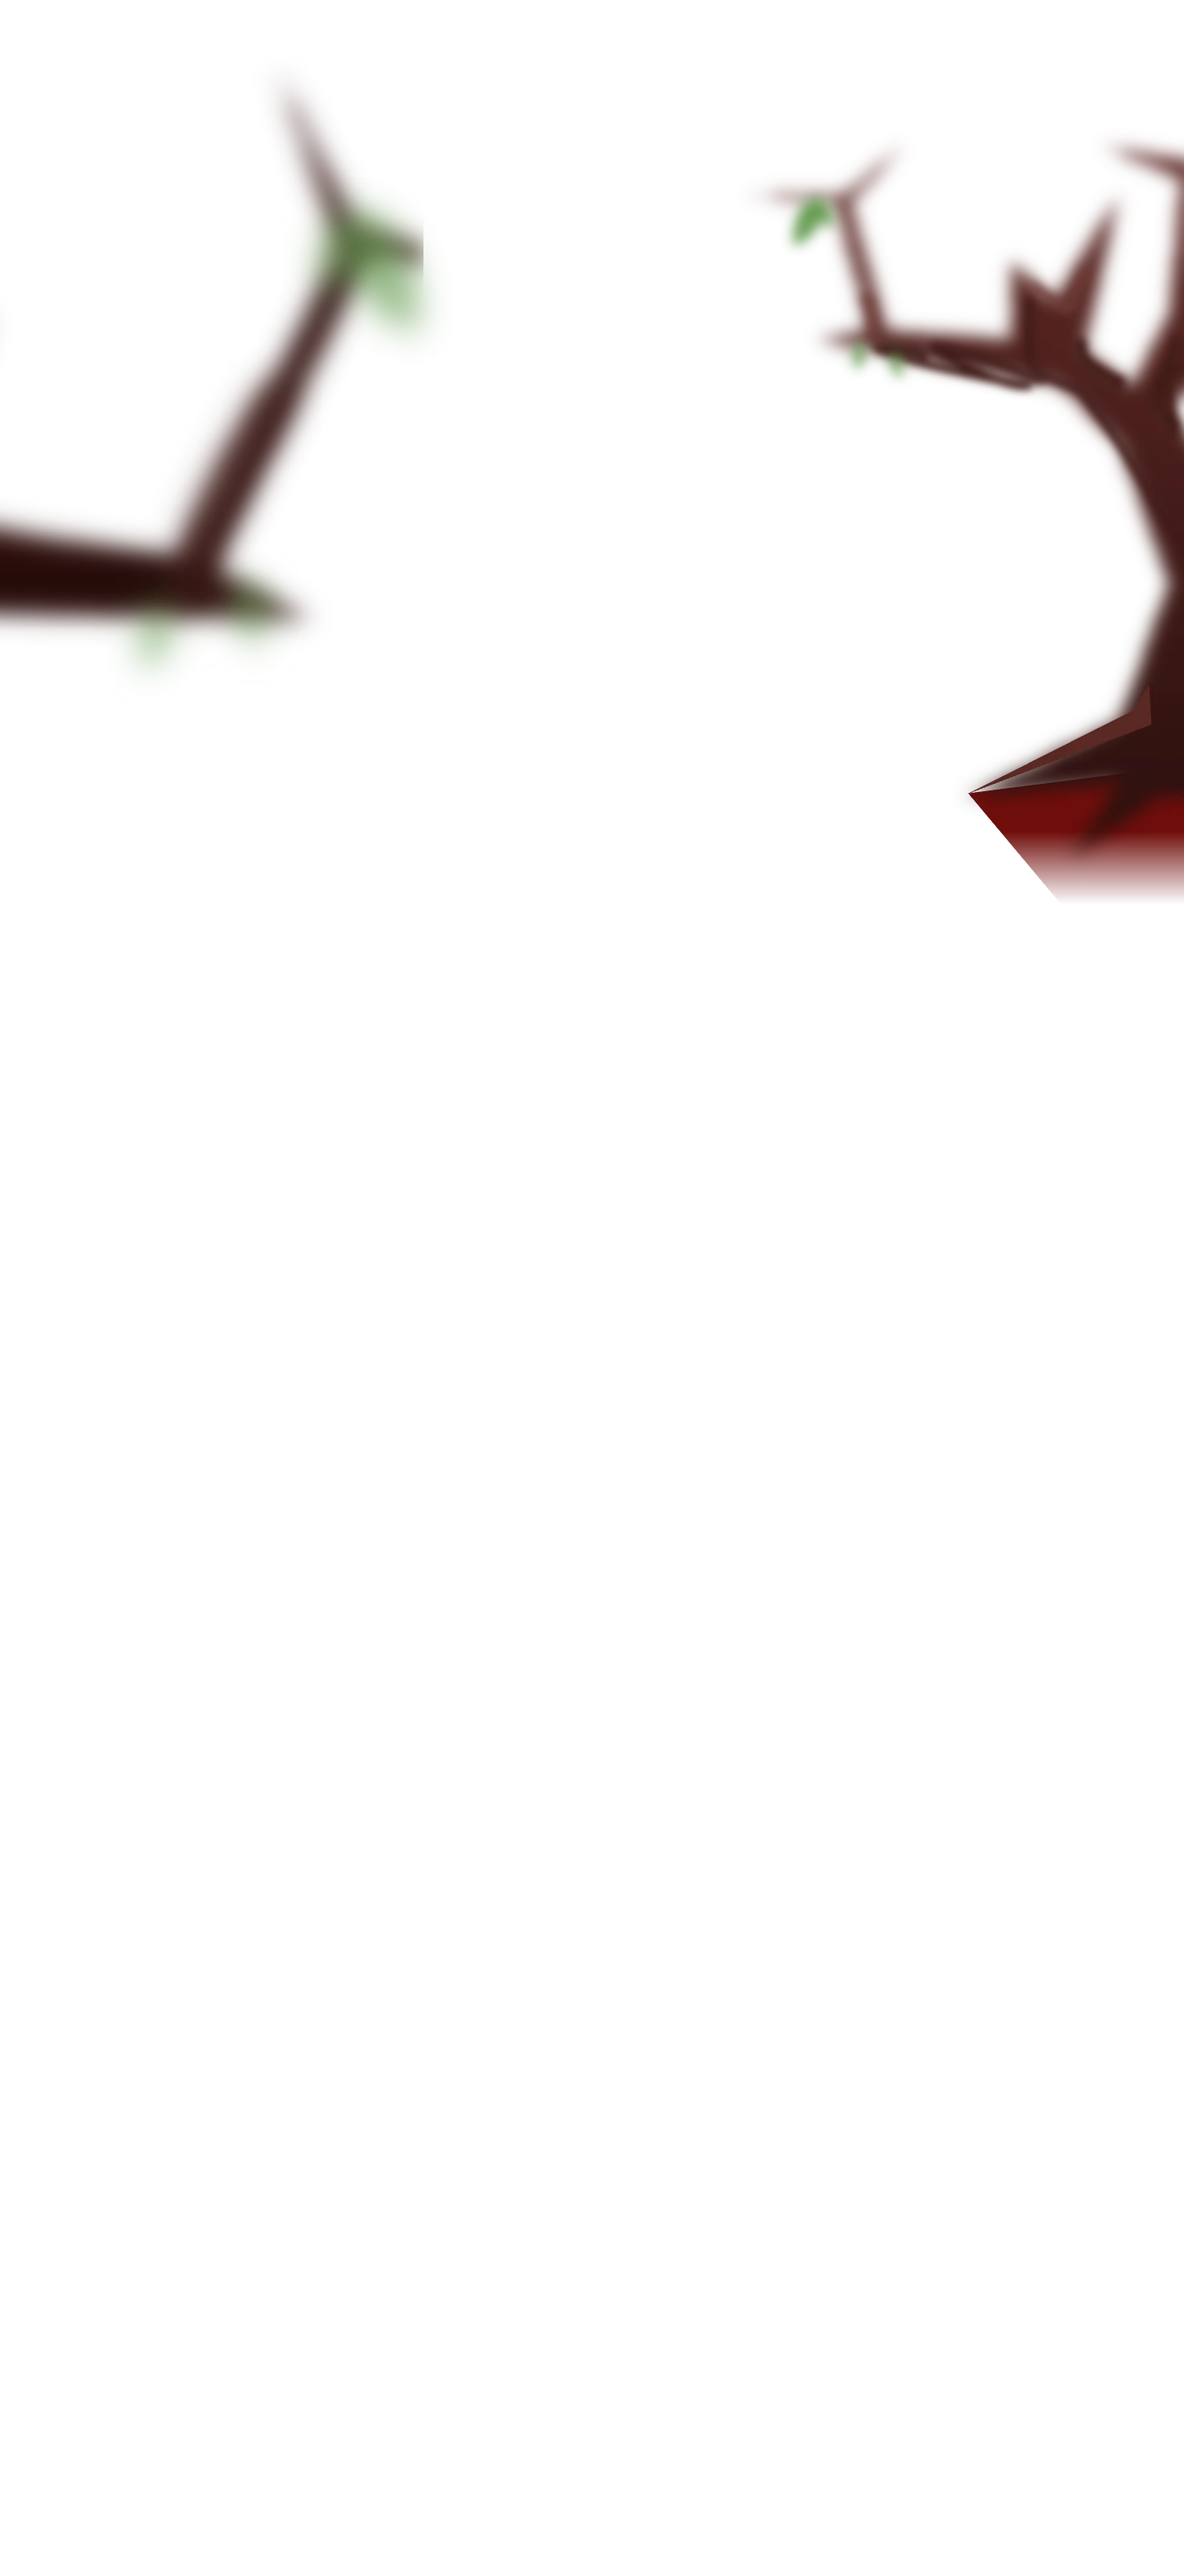
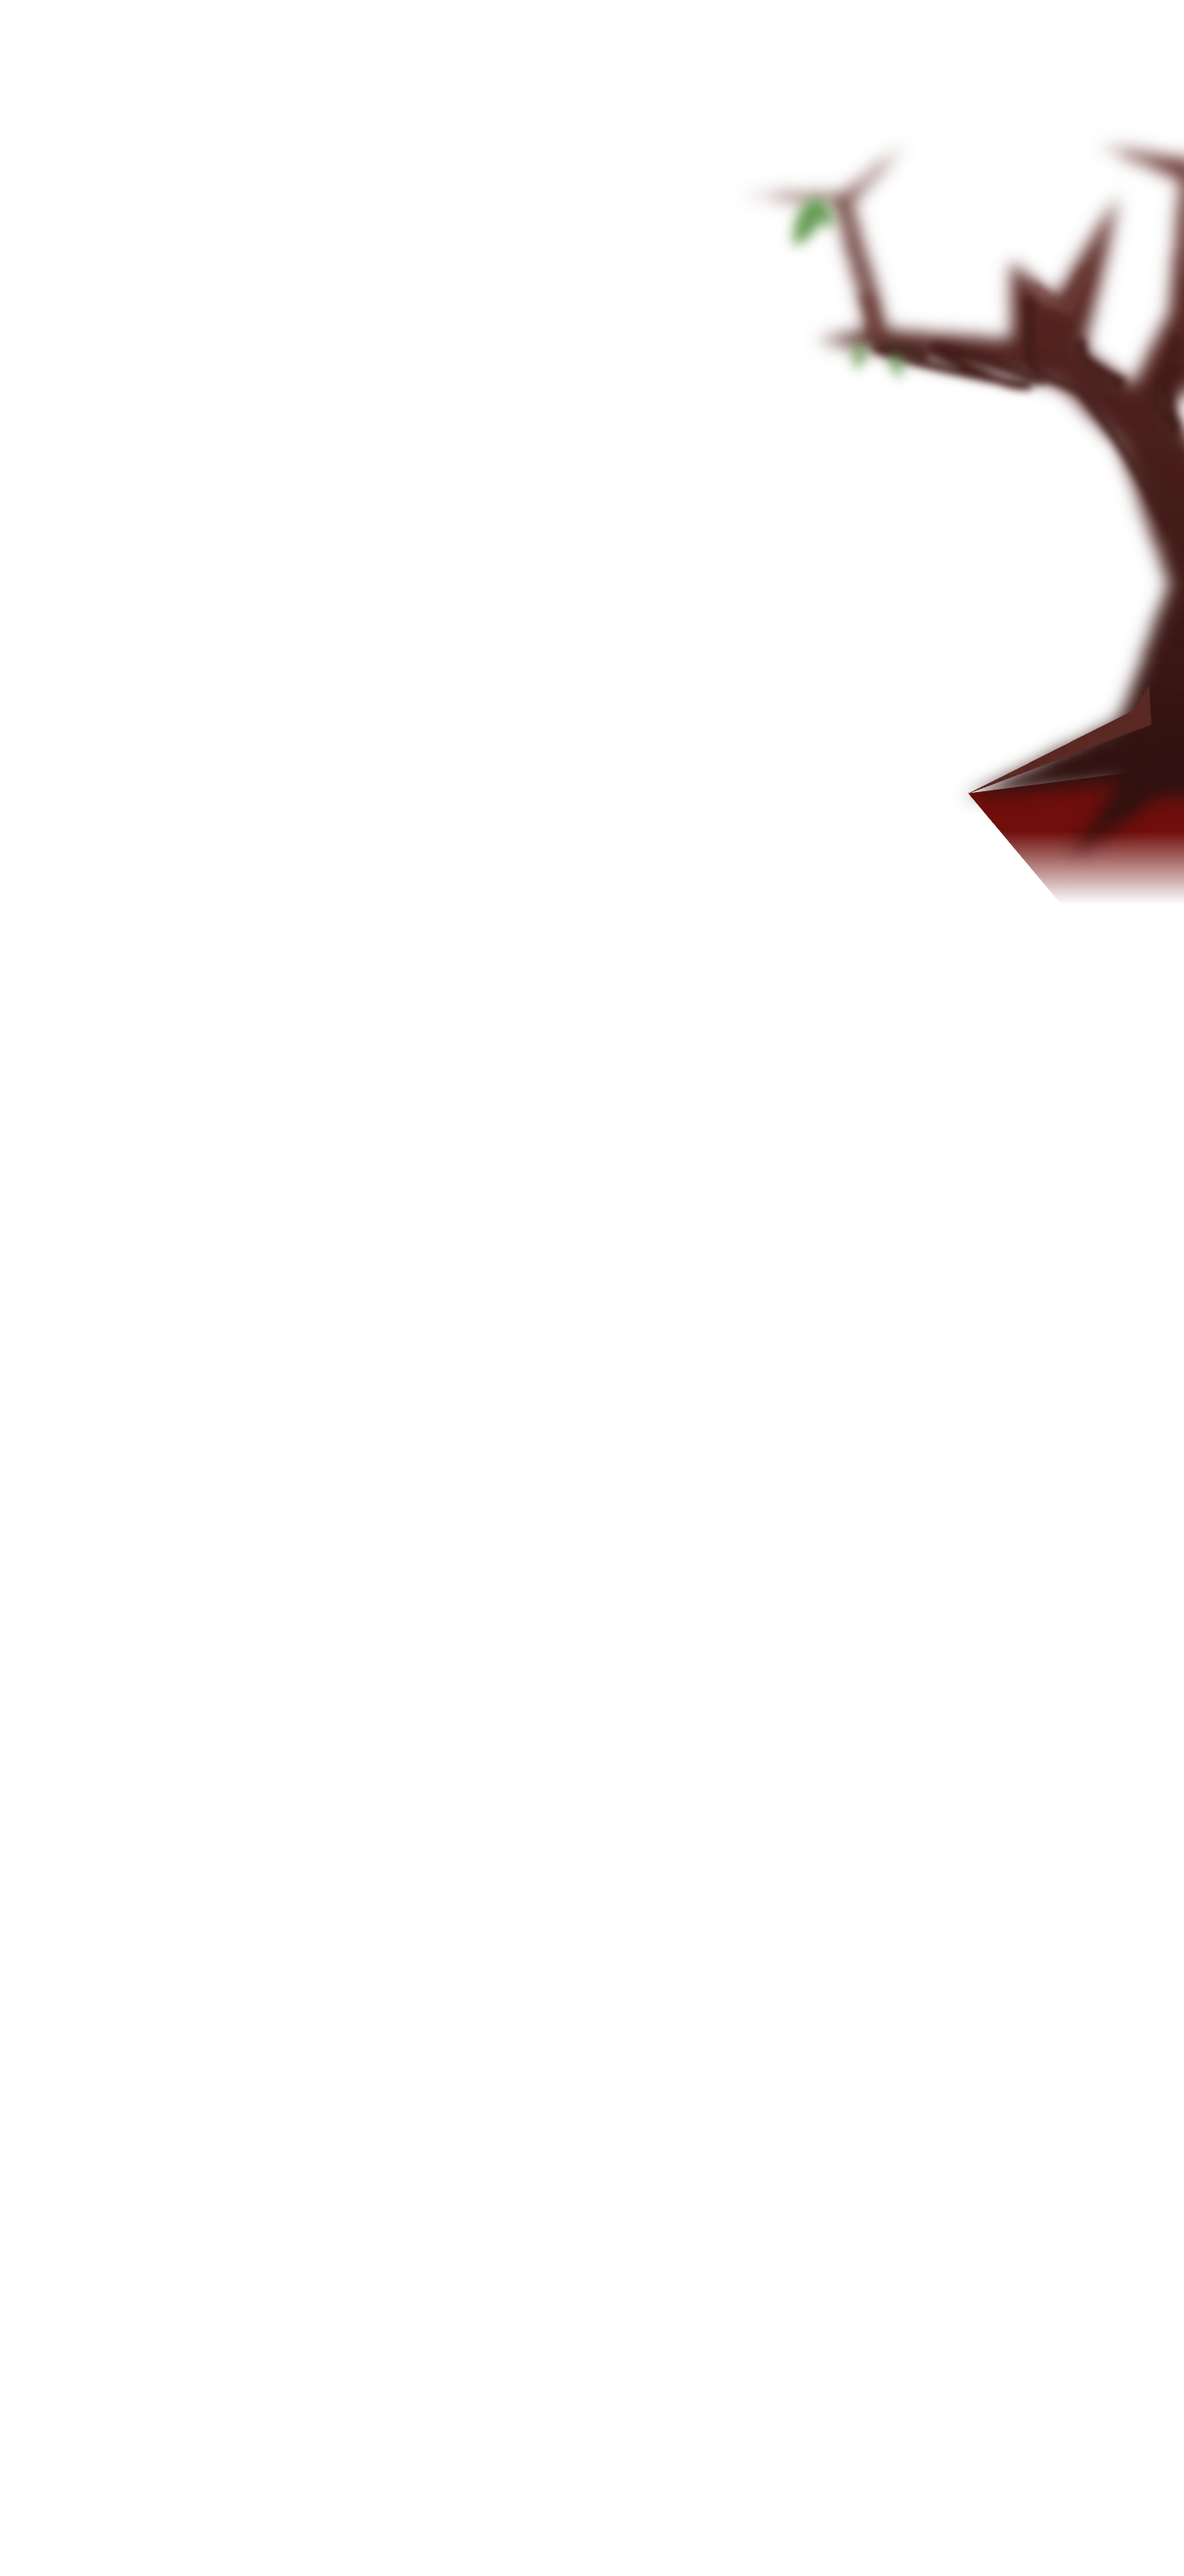
Fix Travel left parallax tree right-edge cutoff

Changed region(s): [[0.0, 0.031, 0.375, 0.2787]]

diff --git a/tests/travel/animation.spec.ts b/tests/travel/animation.spec.ts
@@ -122,3 +122,54 @@ test("scene stays visible without JavaScript", async ({
     ).toBeVisible();
     await context.close();
 });
+
+test("left parallax branch extends unclipped past its right tip", async ({
+    page
+}, testInfo) => {
+    await page.goto("/travel");
+    const branchLayer = page.locator('[data-scene-layer="branch"]');
+    const branchImg = branchLayer.locator("img");
+    await expect(branchImg).toBeVisible();
+    const metrics = await branchLayer.evaluate(async layer => {
+        const img = layer.querySelector("img") as HTMLImageElement;
+        await img.decode();
+        const canvas = document.createElement("canvas");
+        canvas.width = img.naturalWidth;
+        canvas.height = img.naturalHeight;
+        const ctx = canvas.getContext("2d")!;
+        ctx.drawImage(img, 0, 0);
+        const { data, width, height } = ctx.getImageData(
+            0,
+            0,
+            canvas.width,
+            canvas.height
+        );
+        let maxX = -1;
+        let maxDrop = 0;
+        const colMaxAlpha = new Uint8Array(width);
+        for (let y = 0; y < height; y++) {
+            for (let x = 0; x < width; x++) {
+                const a = data[(y * width + x) * 4 + 3];
+                if (a > colMaxAlpha[x]) colMaxAlpha[x] = a;
+                if (a > 10 && x > maxX) maxX = x;
+            }
+        }
+        for (let x = 1; x < width; x++) {
+            const drop = colMaxAlpha[x - 1] - colMaxAlpha[x];
+            if (drop > maxDrop) maxDrop = drop;
+        }
+        return {
+            clipPath: getComputedStyle(layer).clipPath,
+            width,
+            maxX,
+            maxDrop
+        };
+    });
+    expect(metrics.clipPath).toBe("none");
+    if (testInfo.project.name === "mobile") {
+        expect(metrics.maxX / metrics.width).toBeGreaterThan(0.8);
+    } else {
+        expect(metrics.maxX / metrics.width).toBeGreaterThan(0.45);
+    }
+    expect(metrics.maxDrop).toBeLessThan(30);
+});

diff --git a/app/travel/scene/TravelScene.tsx b/app/travel/scene/TravelScene.tsx
@@ -6,16 +6,16 @@ import styles from "./TravelScene.module.scss";
 import pageStyles from "../styles.module.scss";
 import Navbar from "@/components/Navbar/Navbar";
 
-function ForegroundArt() {
+function SceneLayerArt({ name }: { name: "foreground" | "branch" }) {
     return (
         <picture className={styles.foreground}>
             <source
                 media="(max-width: 700px)"
-                srcSet="/travel/frontier/motion/mobile/foreground.webp"
+                srcSet={`/travel/frontier/motion/mobile/${name}.webp`}
             />
             {/* eslint-disable-next-line @next/next/no-img-element */}
             <img
-                src="/travel/frontier/motion/desktop/foreground.webp"
+                src={`/travel/frontier/motion/desktop/${name}.webp`}
                 alt=""
                 width={1440}
                 height={3132}
@@ -88,14 +88,14 @@ export default function TravelScene({ children }: { children: ReactNode }) {
                         className={styles.fixedTree}
                         data-scene-layer="foreground"
                     >
-                        <ForegroundArt />
+                        <SceneLayerArt name="foreground" />
                     </div>
                     <motion.div
-                        className={`${styles.movingLayer} ${styles.branch}`}
+                        className={styles.movingLayer}
                         style={{ y: branchY }}
                         data-scene-layer="branch"
                     >
-                        <ForegroundArt />
+                        <SceneLayerArt name="branch" />
                     </motion.div>
                 </div>
                 {children}

diff --git a/app/travel/scene/TravelScene.module.scss b/app/travel/scene/TravelScene.module.scss
@@ -52,13 +52,6 @@
     position: absolute;
     inset: 0;
 }
-// The clips meet in transparent parts of the shared foreground artwork.
-.fixedTree {
-    clip-path: inset(0 0 0 50%);
-}
-.branch {
-    clip-path: inset(0 50% 0 0);
-}
 .train {
     position: absolute;
     left: var(--train-left);
@@ -69,20 +62,6 @@
     .scene {
         height: 601.99005vw;
         --train-left: -37.0646766%;
-    }
-    // The right tree extends farther left above the near branch on phones.
-    .fixedTree {
-        clip-path: polygon(
-            0 0,
-            100% 0,
-            100% 100%,
-            60% 100%,
-            60% 25.6%,
-            0 25.6%
-        );
-    }
-    .branch {
-        clip-path: inset(25.6% 40% 0 0);
     }
     .train {
         top: 21.4876033%;
